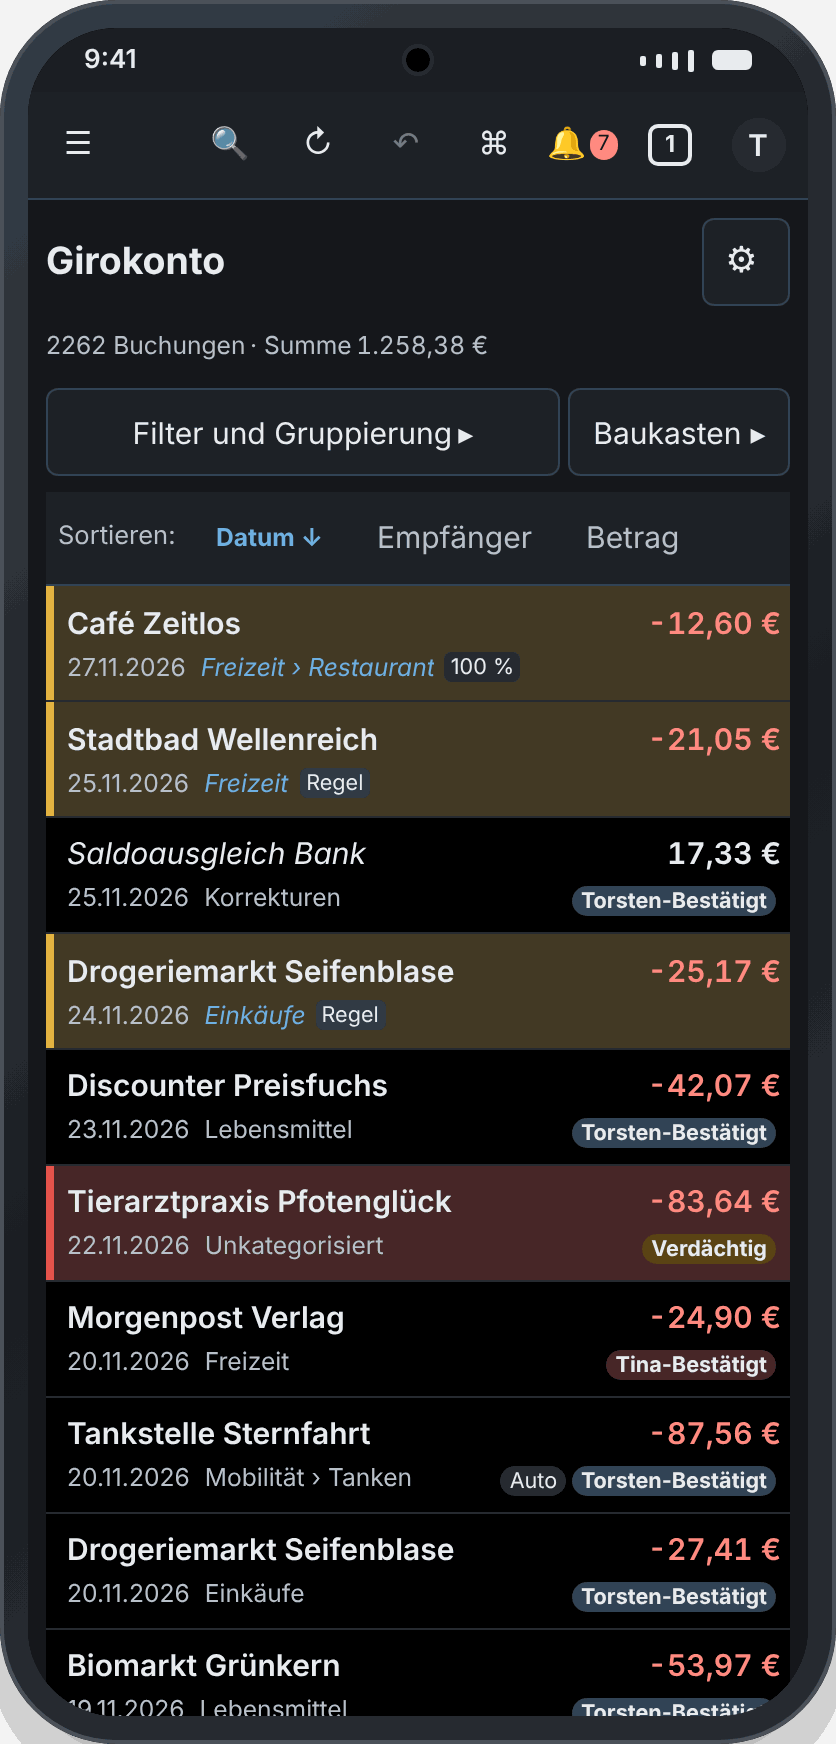
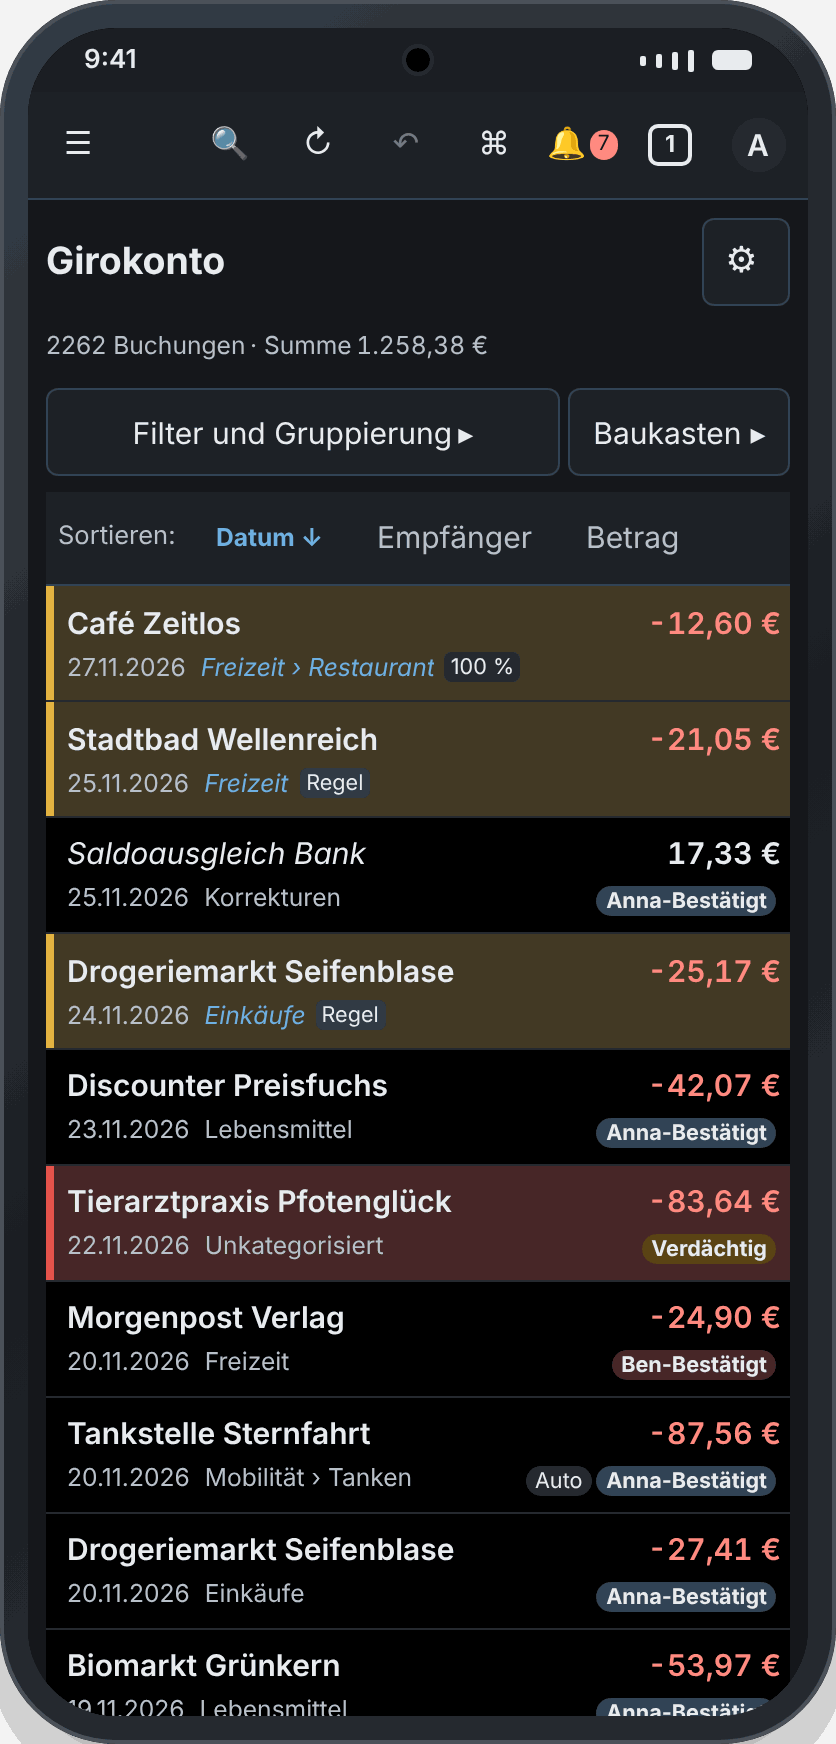
README: Satz zur gemerkten PIN verständlich, Schnellstart mit KONTOR_BENUTZER; Screenshots mit den Demo-Personen (D-324) neu
Claude-Session: https://claude.ai/code/session_01F56sG4V8MWVAQqfUAGv678

diff --git a/README.md b/README.md
@@ -62,7 +62,8 @@ steht ausführlich in [spec/meilensteine.md](spec/meilensteine.md).
   - *verschlüsselt über systemd-creds:* Die PIN wird mit `systemd-creds encrypt` an den Rechner (oder sein TPM)
     gebunden abgelegt; systemd stellt sie nur dem laufenden Dienst bereit.
   - *oder Eingabe in der Oberfläche:* Die PIN lebt dann nur im Arbeitsspeicher und ist nach einem Neustart weg.
-    Wer sie sich merken lässt, bekommt sie nur verschlüsselt und mit dem Login-Passwort geschützt gespeichert.
+    Auf Wunsch merkt Kontor sie sich: Dann liegt sie verschlüsselt in der Datenbank und lässt sich nur mit dem
+    Login-Passwort wieder entschlüsseln.
 - **Mail-Zugänge sind verschlüsselt.** App-Passwörter und OAuth-Tokens der Postfächer, das OAuth-Client-Secret und
   das ntfy-Token liegen nur verschlüsselt (AES-256-GCM) in der Datenbank. Der Schlüssel kommt aus systemd-creds bzw.
   einer eigenen Schlüsseldatei; auf Wunsch schützt zusätzlich das Login-Passwort, dann ist der Schlüssel nur nach
@@ -99,6 +100,8 @@ export KONTOR_DATENBANK="$PWD/daten/kontor.sqlite3"
 export KONTOR_MOCK_MODUS=ja
 #    Bank und Postfächer des Demo-Haushalts:
 export KONTOR_MOCK_DATEN="$PWD/daten/demo-mock.json"
+#    die beiden erfundenen Personen des Demo-Haushalts (wer bestätigt hat):
+export KONTOR_BENUTZER=Anna,Ben
 #    Die Anmeldung bleibt aus (Vorgabe), siehe „Anmeldung ausprobieren“.
 
 # 4. Server starten (127.0.0.1:8000; ändern über KONTOR_HOST/KONTOR_PORT)
